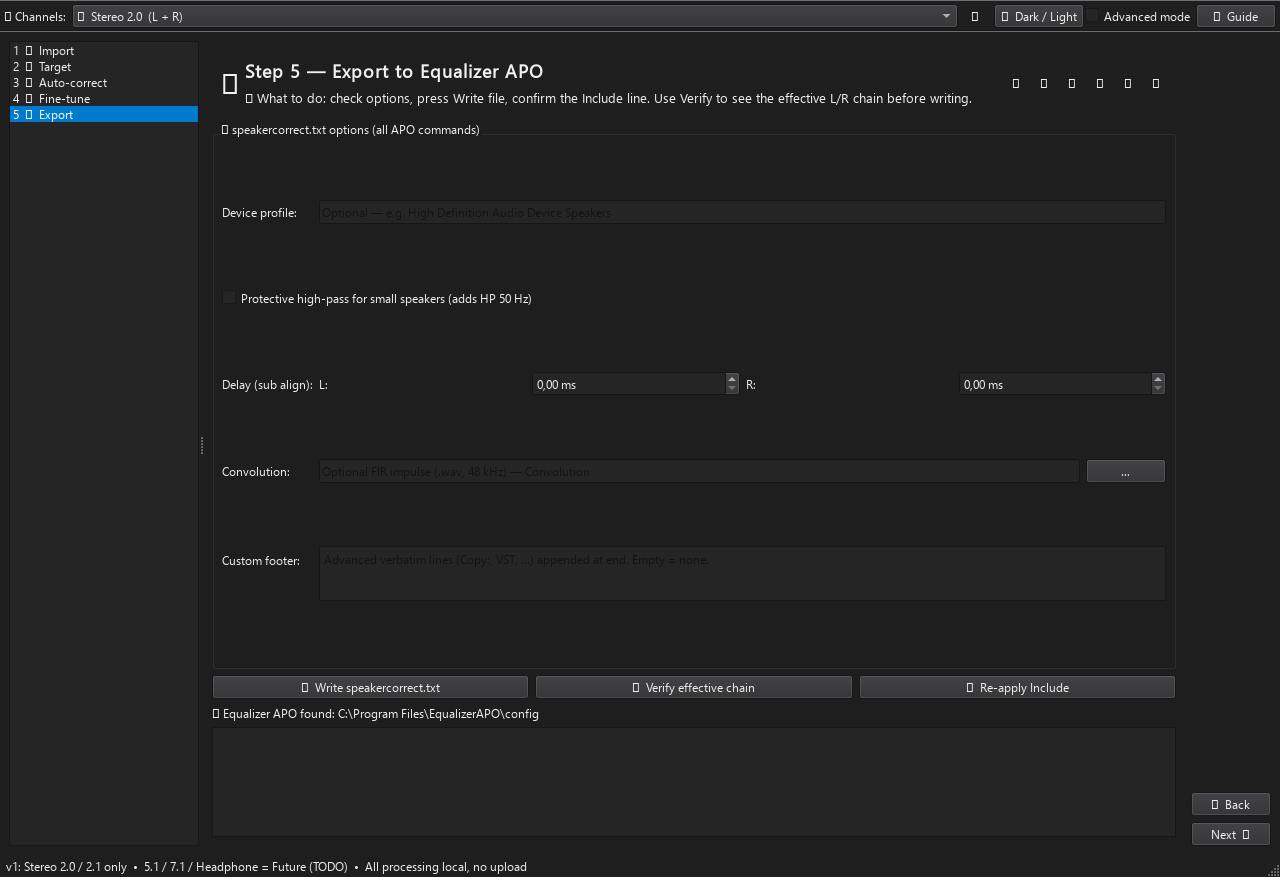
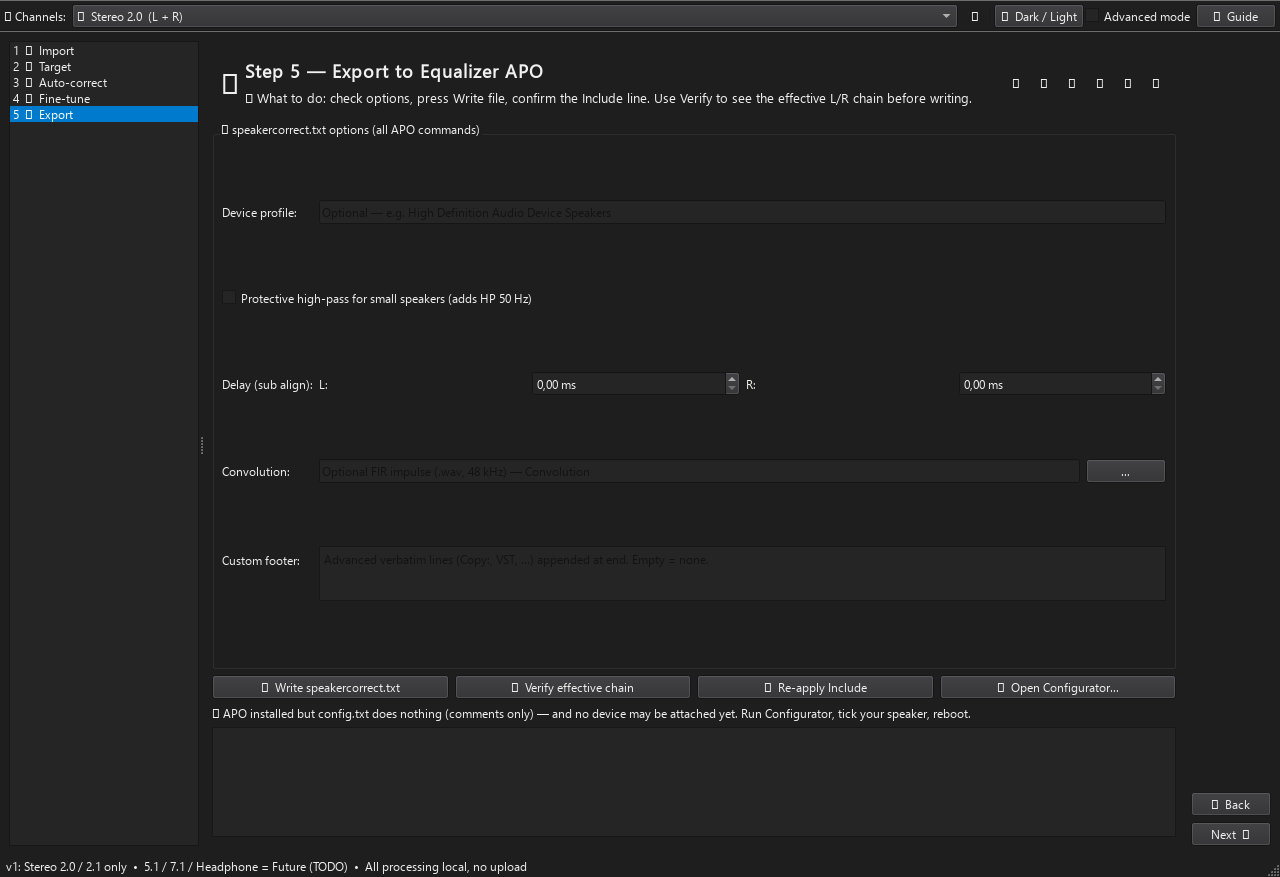
feat(setup): APO missing/idle/wired states + install guide, no bundling (GPL+driver)

Changed region(s): [[0.1875, 0.7697, 0.75, 0.8312], [0.7812, 0.7697, 0.875, 0.8005]]

diff --git a/src/harmo_dsp/ui/pages.py b/src/harmo_dsp/ui/pages.py
@@ -647,9 +647,17 @@ class ExportPage(QWidget):
         self.btn_reapply = QPushButton("↻  Re-apply Include")
         self.btn_reapply.setToolTip("Peace overwrites config.txt when its Include is missing — this restores ours")
         self.btn_reapply.clicked.connect(lambda: self._write(reapply_only=True))
+        self.btn_setup = QPushButton("📥  Install APO…")
+        self.btn_setup.setToolTip("APO not found: guide + official download (never bundled: GPL driver)")
+        self.btn_setup.clicked.connect(self._show_apo_guide)
+        self.btn_configurator = QPushButton("🔧  Open Configurator…")
+        self.btn_configurator.setToolTip("Tick your speaker device (admin), then reboot — this attaches APO to Windows sound")
+        self.btn_configurator.clicked.connect(self._open_configurator)
         brow.addWidget(self.btn_write)
         brow.addWidget(self.btn_verify)
         brow.addWidget(self.btn_reapply)
+        brow.addWidget(self.btn_setup)
+        brow.addWidget(self.btn_configurator)
         lay.addLayout(brow)
         self.status = QLabel("Equalizer APO status: checking…")
         lay.addWidget(self.status)
@@ -664,12 +672,44 @@ class ExportPage(QWidget):
 
     # ---- helpers ----
     def _detect_apo(self):
-        import os
-        cfg = os.path.join(self.APO_DIR, "config.txt")
-        if os.path.isfile(cfg):
-            self.status.setText(f"✓ Equalizer APO found: {self.APO_DIR}")
-        else:
-            self.status.setText("⚠ Equalizer APO config not found — you can still save the file anywhere.")
+        from ..dsp.apo_setup import find_config_dir, status
+        found = find_config_dir([self.APO_DIR])
+        if found and found != self.APO_DIR:
+            self.APO_DIR = found
+        self._apo_dir = find_config_dir([self.APO_DIR])
+        state, msg = status(self._apo_dir)
+        self._apo_state = state
+        self.status.setText(msg)
+        self.btn_setup.setVisible(state == "missing")
+        self.btn_configurator.setVisible(state in ("idle", "peace-idle"))
+
+    def _show_apo_guide(self):
+        from PySide6.QtWidgets import QMessageBox
+        from ..dsp.apo_setup import OFFICIAL_URL
+        box = QMessageBox(self)
+        box.setWindowTitle("Install Equalizer APO (once)")
+        box.setTextFormat(2)  # rich text
+        box.setText(
+            "Harmo-Dsp only <b>writes text</b> — the sound engine is Equalizer APO "
+            "(free, GPL by Jonas Thedering). It is a <b>driver</b>, so it cannot be "
+            "bundled as a plugin: it needs its own installer + admin + reboot.<br><br>"
+            "1. Download from the <b>official</b> site (check the license there).<br>"
+            "2. Install, run <b>Configurator.exe as admin</b>, tick your speaker.<br>"
+            "3. Reboot, come back here, press Write.<br><br>"
+            f"Official download:<br>{OFFICIAL_URL}")
+        box.addButton("Open official download…", QMessageBox.AcceptRole)
+        box.addButton("Close", QMessageBox.RejectRole)
+        if box.exec():
+            from PySide6.QtGui import QDesktopServices
+            from PySide6.QtCore import QUrl
+            QDesktopServices.openUrl(QUrl(OFFICIAL_URL))
+
+    def _open_configurator(self):
+        from PySide6.QtWidgets import QMessageBox
+        from ..dsp.apo_setup import open_configurator
+        if not open_configurator(getattr(self, "_apo_dir", None)):
+            QMessageBox.warning(self, "Configurator",
+                                "Configurator.exe not found — reinstall Equalizer APO first.")
 
     def _pick_conv(self):
         paths, _ = QFileDialog.getOpenFileNames(
@@ -736,7 +776,8 @@ class ExportPage(QWidget):
         from PySide6.QtWidgets import QMessageBox
         from ..dsp.apo_config import render_speakercorrect, OUR_FILENAME
         from ..dsp.apo_semantics import detect_peace
-        target_dir = self.APO_DIR if os.path.isdir(self.APO_DIR) else ""
+        apo_dir = getattr(self, "_apo_dir", None) or self.APO_DIR
+        target_dir = apo_dir if os.path.isdir(apo_dir) else ""
         if not target_dir or not os.access(target_dir, os.W_OK):
             picked = QFileDialog.getExistingDirectory(self, "Save folder for speakercorrect.txt")
             if not picked:

diff --git a/src/harmo_dsp/dsp/apo_setup.py b/src/harmo_dsp/dsp/apo_setup.py
@@ -1,0 +1,87 @@
+"""APO presence & wiring status (Windows-only paths, guarded elsewhere).
+
+Why APO is NEVER bundled (see docs/ASSUMPTIONS.md):
+- License: Equalizer APO is GPL. Shipping its binary = distributing GPL
+  software (source + copyleft obligations). Our core stays MIT.
+- Technical: APO is a DRIVER, not a library. "Including" it means running
+  its installer + Configurator + reboot with admin rights — an install-time
+  action by the USER from the official source, never a bundled plugin DLL.
+"""
+from __future__ import annotations
+import os
+import subprocess
+
+OFFICIAL_URL = "https://sourceforge.net/projects/equalizerapo/files/"
+CANDIDATE_DIRS = [
+    r"C:\Program Files\EqualizerAPO\config",
+    r"C:\Program Files (x86)\EqualizerAPO\config",
+]
+
+
+def find_config_dir(candidates: list[str] | None = None) -> str | None:
+    for d in candidates or CANDIDATE_DIRS:
+        try:
+            if os.path.isfile(os.path.join(d, "config.txt")):
+                return d
+        except OSError:
+            continue
+    # last resort: dir exists but config.txt missing (fresh/broken install)
+    for d in candidates or CANDIDATE_DIRS:
+        try:
+            if os.path.isdir(d):
+                return d
+        except OSError:
+            continue
+    return None
+
+
+def read_config(config_dir: str) -> str:
+    try:
+        with open(os.path.join(config_dir, "config.txt"),
+                  encoding="utf-8-sig", errors="replace") as fh:
+            return fh.read()
+    except OSError:
+        return ""
+
+
+def status(config_dir: str | None) -> tuple[str, str]:
+    """(state, human message). States: missing | idle | peace-idle | wired."""
+    if not config_dir:
+        return ("missing",
+                "✗ Equalizer APO not found. Install it (once, official), "
+                "then attach your speaker in Configurator + reboot.")
+    text = read_config(config_dir)
+    low = text.lower()
+    if "speakercorrect" in low:
+        return ("wired", f"✓ Wired: speakercorrect is Included ({config_dir}).")
+    if "peace.txt" in low:
+        return ("peace-idle",
+                f"ℹ Peace drives APO here; ours is not Included yet. "
+                f"Write the file, then add our Include AFTER peace.txt.")
+    active = [ln for ln in text.splitlines()
+              if ln.strip() and not ln.strip().startswith("#")]
+    if not active:
+        return ("idle",
+                f"⚠ APO installed but config.txt does nothing "
+                f"(comments only) — and no device may be attached yet. "
+                f"Run Configurator, tick your speaker, reboot.")
+    return ("idle",
+            f"⚠ APO active with other content; ours not Included yet.")
+
+
+def open_configurator(config_dir: str | None) -> bool:
+    """Launch official Configurator.exe (user clicks through, admin+reboot)."""
+    candidates = []
+    if config_dir:
+        candidates.append(os.path.join(os.path.dirname(config_dir),
+                                        "Configurator.exe"))
+    candidates += [r"C:\Program Files\EqualizerAPO\Configurator.exe",
+                   r"C:\Program Files (x86)\EqualizerAPO\Configurator.exe"]
+    for exe in candidates:
+        try:
+            if os.path.isfile(exe):
+                subprocess.Popen([exe])
+                return True
+        except OSError:
+            continue
+    return False

diff --git a/tests/test_apo_setup.py b/tests/test_apo_setup.py
@@ -1,0 +1,30 @@
+"""APO setup states (tmp dirs stand in for the APO config dir)."""
+from harmo_dsp.dsp import apo_setup as S
+
+
+def test_missing_dir():
+    assert S.find_config_dir(["/no/such/dir"]) is None
+    state, msg = S.status(None)
+    assert state == "missing" and "Install" in msg
+
+
+def test_idle_comment_only_config(tmp_path):
+    (tmp_path / "config.txt").write_text(
+        "# Convolution: old-filters-48k.wav\n", encoding="utf-8")
+    assert S.find_config_dir([str(tmp_path)]) == str(tmp_path)
+    state, msg = S.status(str(tmp_path))
+    assert state == "idle" and "Configurator" in msg
+
+
+def test_wired_and_peace_states(tmp_path):
+    (tmp_path / "config.txt").write_text(
+        "Include: peace.txt\nInclude: speakercorrect.txt\n", encoding="utf-8")
+    assert S.status(str(tmp_path))[0] == "wired"
+    (tmp_path / "config.txt").write_text("Include: peace.txt\n", encoding="utf-8")
+    assert S.status(str(tmp_path))[0] == "peace-idle"
+    (tmp_path / "config.txt").write_text("Preamp: -6 dB\n", encoding="utf-8")
+    assert S.status(str(tmp_path))[0] == "idle"
+
+
+def test_official_url_is_sourceforge():
+    assert S.OFFICIAL_URL.startswith("https://sourceforge.net/projects/equalizerapo")

diff --git a/docs/ASSUMPTIONS.md b/docs/ASSUMPTIONS.md
@@ -54,6 +54,21 @@ Date: 2026-10-09. Rule: no guessing file formats or syntax — verify or record.
   energy ratio. No parity claim vs Dirac: Dirac adds guided measurement,
   MIMO/time alignment and years of tuning. Parity needs Gate 3 (real rig).
 
+## APO PACKAGING (why no bundling, no "APO plugin")
+- Equalizer APO is GPL (Jonas Thedering). Shipping its binary = distributing
+  GPL software (source + copyleft duties) — incompatible with MIT-core goal.
+  A subprocess boundary does NOT avoid distribution duties.
+- Technical: APO is a DRIVER (Audio Processing Object), not a callable
+  library. "Including" it can only mean: user runs official installer +
+  Configurator (admin) + reboot. There is no plugin DLL to embed.
+- Compliant path (implemented, dsp/apo_setup.py): missing APO → guide +
+  user-triggered official download (license seen on source site) → Open
+  Configurator button → status idle/peace-idle/wired. Verified state machine
+  on this machine: installed-but-idle (config.txt comment-only, 0 devices).
+- Device-attach scanning via FxProperties was probed and dropped: our check
+  found only Microsoft property keys; attachment state is Configurator-side
+  and version-dependent — status() reports install+wiring, not attachment.
+
 ## MEASUREMENT + TIME-ALIGN (dsp/measure.py, dsp/align.py, io/audio.py)
 - Log sweep (Farina-style) 20 Hz–20 kHz; inverse by EXACT spectral division
   (zero-forcing + -60 dB floor). A +6 dB/oct time-domain envelope was tried
